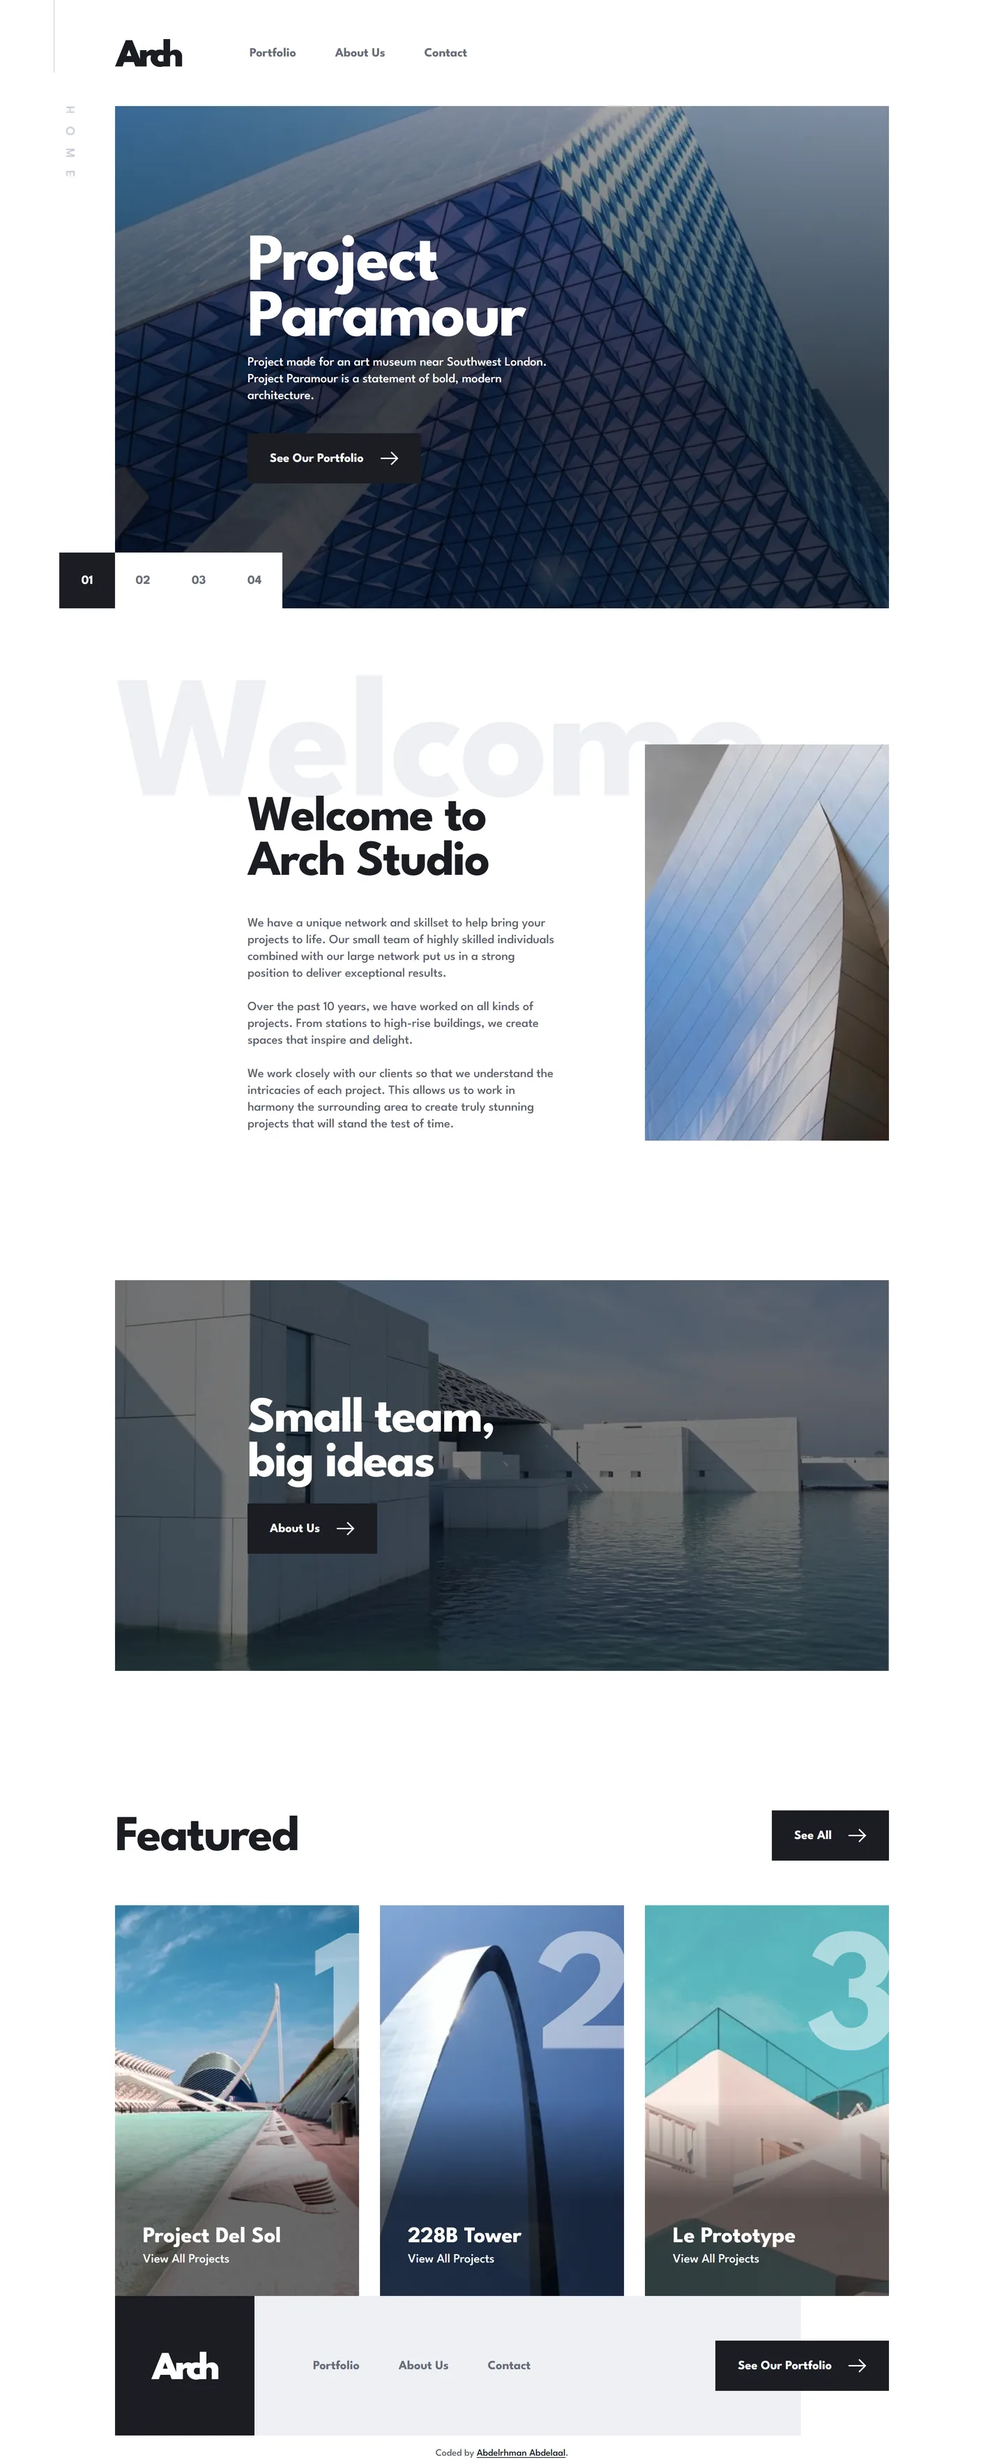
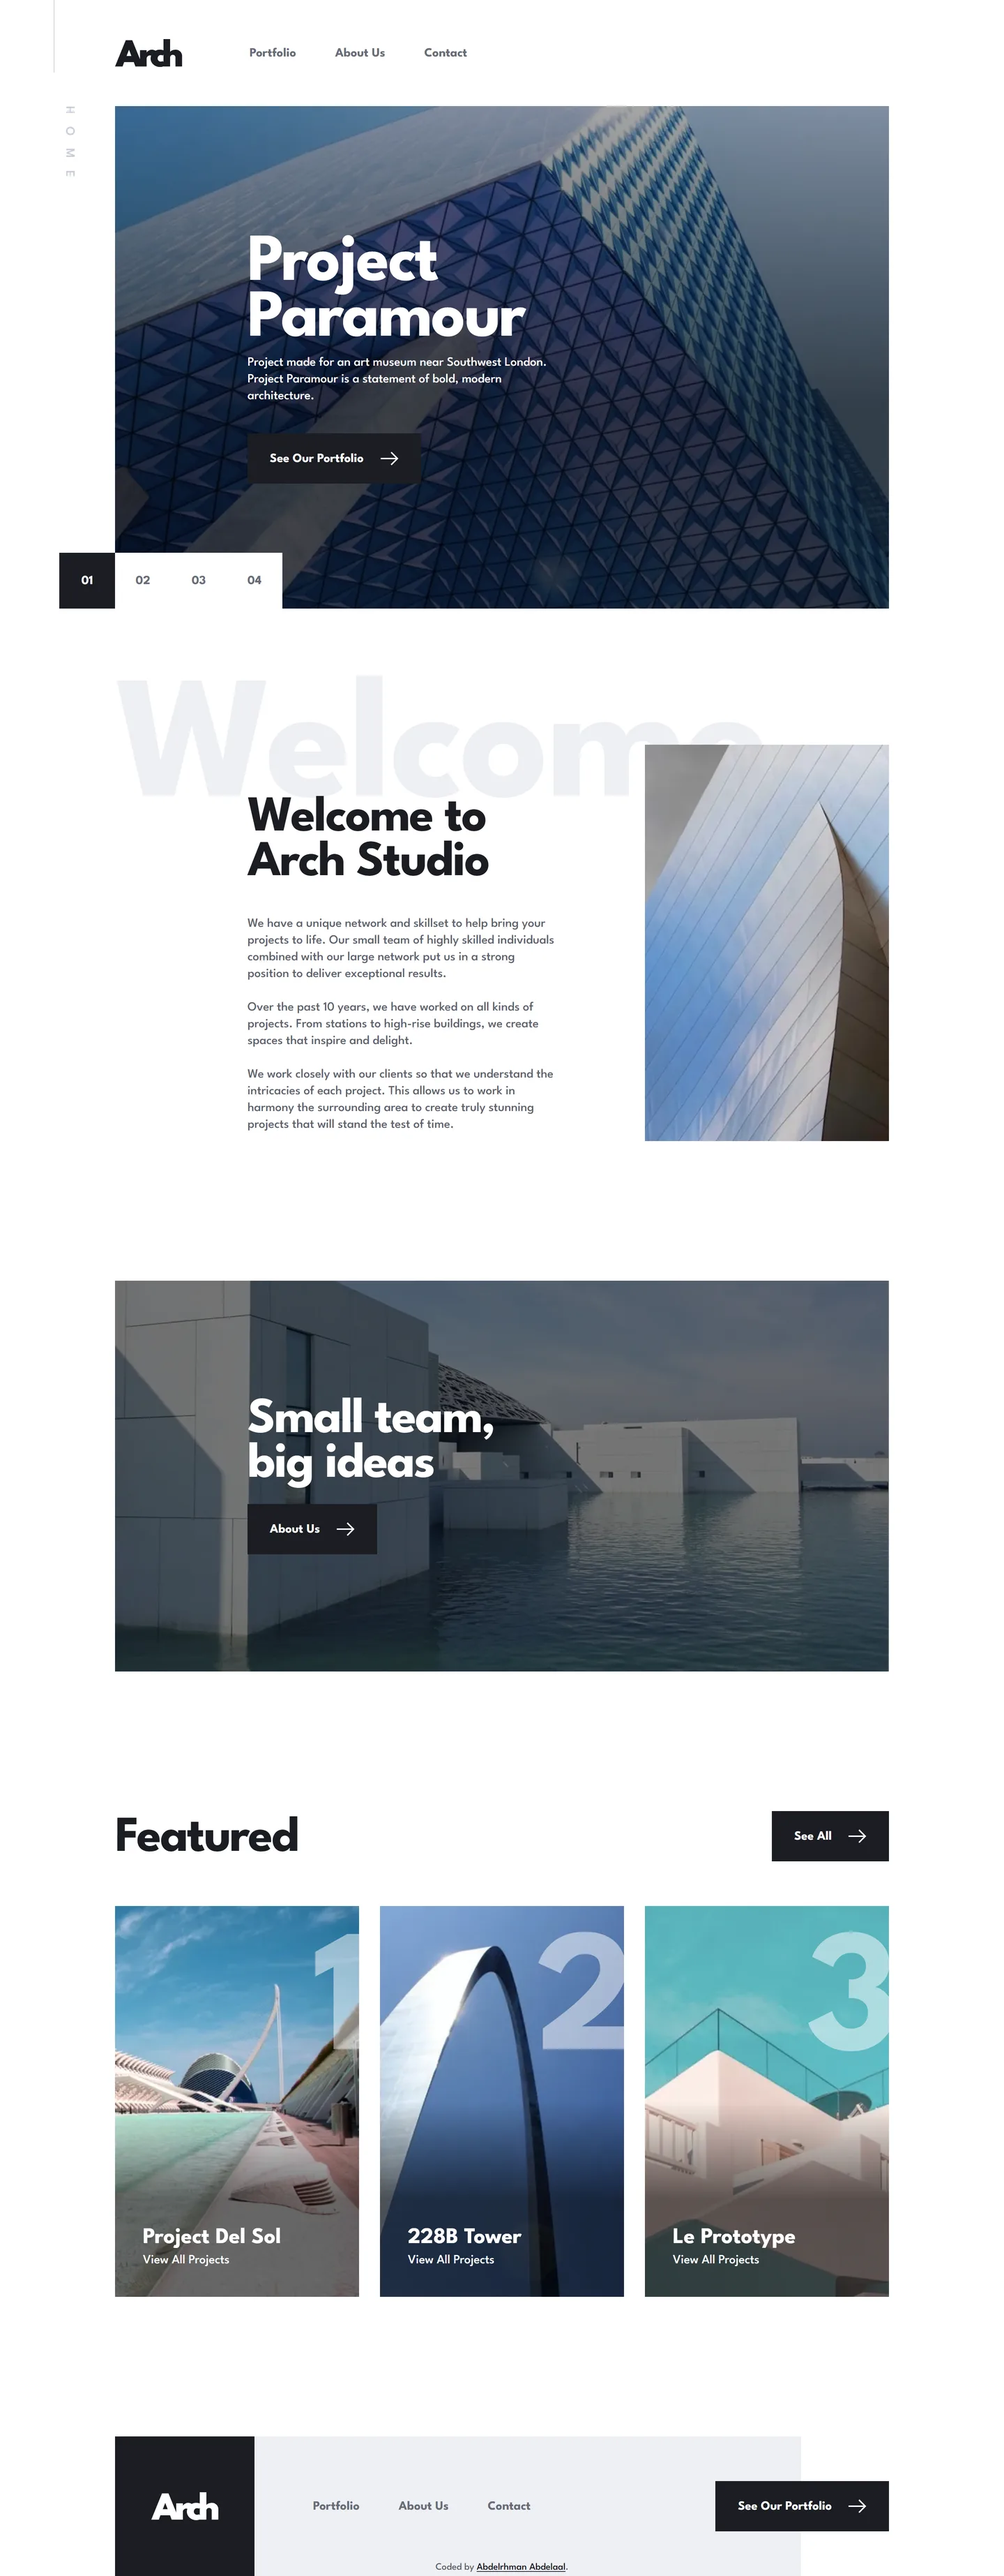
fix: restore the gap above the footer and put the signature inside the band

diff --git a/src/views/home/featured.tsx b/src/views/home/featured.tsx
@@ -12,7 +12,7 @@ export default function Featured() {
   const { heading, cta, cardLabel, projects } = featured;
 
   return (
-    <section className="pt-18.25 md:pt-50">
+    <section className="pt-18.25 pb-18 md:pt-50 md:pb-50">
       <div className="v-container">
         <div className="flex items-end justify-between">
           <h2 className="text-h2-sm font-bold text-very-dark-blue md:text-h2">

diff --git a/src/components/layout/attribution.tsx b/src/components/layout/attribution.tsx
@@ -1,6 +1,6 @@
 export default function Attribution() {
   return (
-    <p className="px-8 pt-4 pb-0.5 text-center text-sm text-dark-grey">
+    <p className="absolute inset-x-0 bottom-0.5 px-8 text-center text-sm text-dark-grey">
       Coded by{" "}
       <a
         href="https://www.linkedin.com/in/abdelrhman-vanta/"

diff --git a/src/components/layout/site-footer.tsx b/src/components/layout/site-footer.tsx
@@ -27,8 +27,8 @@ export default function SiteFooter() {
             See Our Portfolio
           </Button>
         </div>
+        <Attribution />
       </div>
-      <Attribution />
     </footer>
   );
 }
